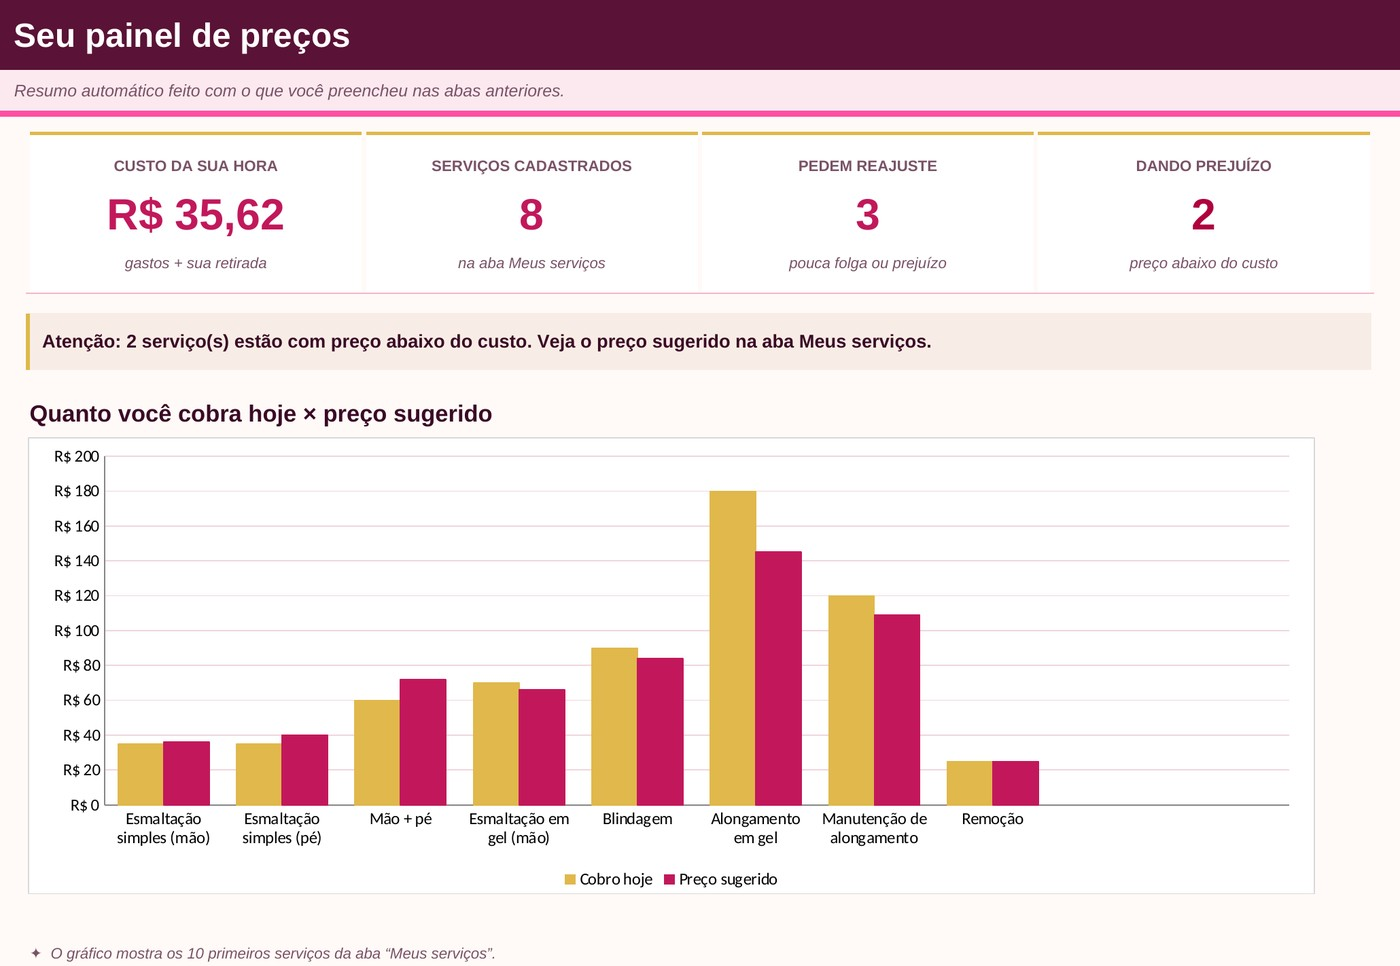
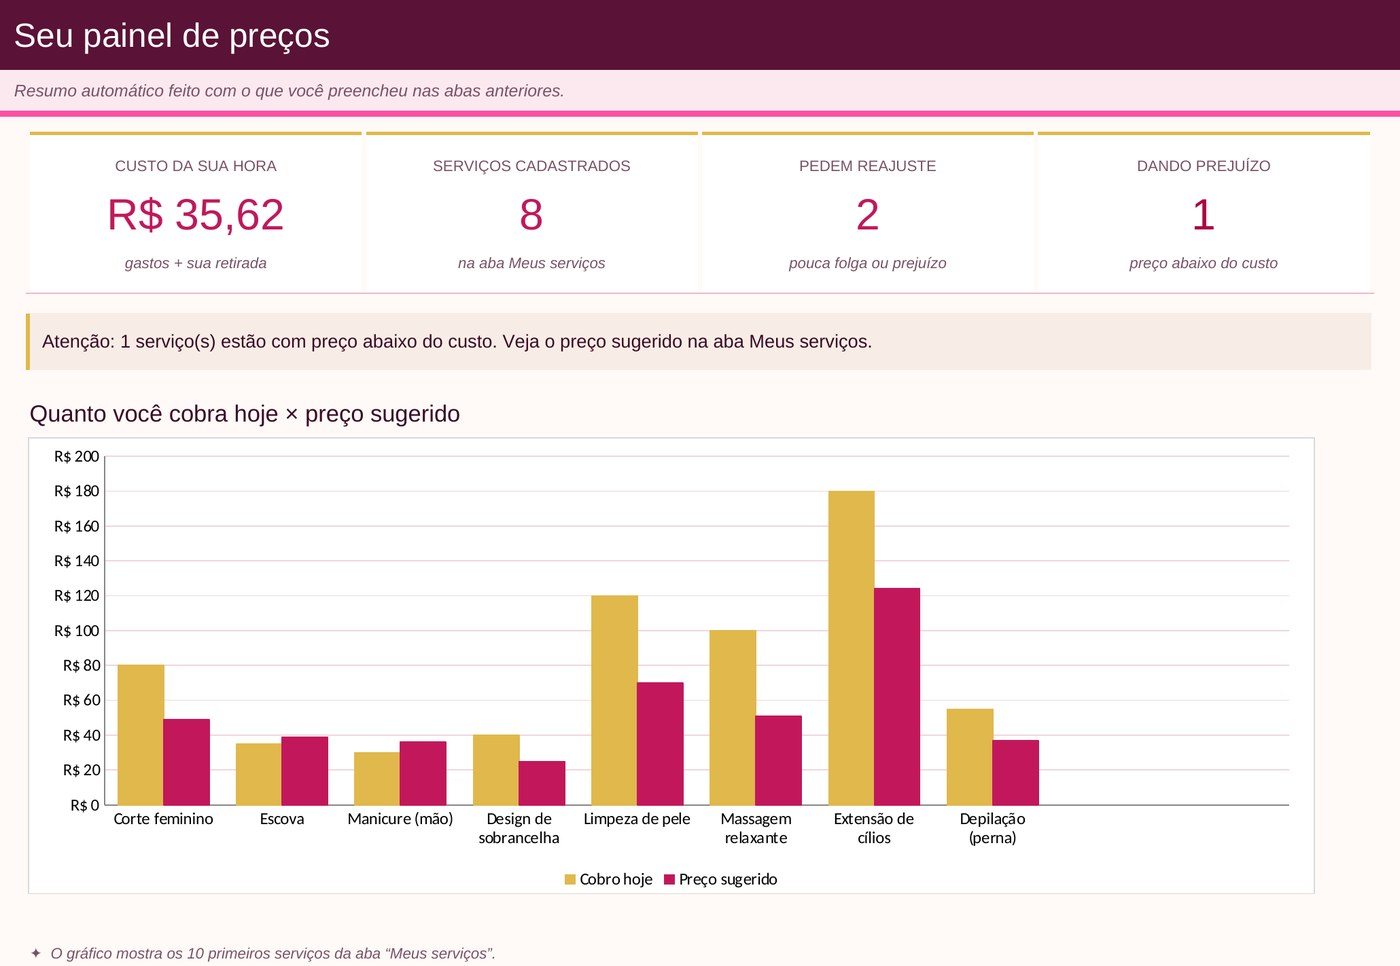
Tira referencias a unhas: icones, emojis, FAQ, exemplos variados na planilha, calculadora e imagens do site
Claude-Session: https://claude.ai/code/session_01VVXSWQenri3WwETC67snQx

diff --git a/index.html b/index.html
@@ -6,7 +6,7 @@
 <link rel="icon" type="image/png" href="favicon.png"><link rel="apple-touch-icon" href="apple-touch-icon.png">
 <link rel="preconnect" href="https://fonts.googleapis.com"><link rel="preconnect" href="https://fonts.gstatic.com" crossorigin>
 <link href="https://fonts.googleapis.com/css2?family=Fredoka:wght@600;700&family=Poppins:wght@400;500;600;700;800&family=Dancing+Script:wght@700&display=swap" rel="stylesheet">
-<link rel="stylesheet" href="style.css?v=65">
+<link rel="stylesheet" href="style.css?v=66">
 <script>document.documentElement.className+=' js';</script></head><body>
 
 <!-- ícones -->
@@ -120,7 +120,7 @@
   <div class="grid g3">
     <div class="tile rv"><div class="ico"><svg viewBox="0 0 24 24"><use href="#i-bulb"/></svg></div><div><b>Leia primeiro</b><span>3 passos e as cores explicadas</span></div></div>
     <div class="tile rv"><div class="ico"><svg viewBox="0 0 24 24"><use href="#i-clock"/></svg></div><div><b>Meu custo por hora</b><span>descubra quanto custa o seu tempo</span></div></div>
-    <div class="tile rv"><div class="ico"><svg viewBox="0 0 24 24"><use href="#i-polish"/></svg></div><div><b>Meus serviços</b><span>preço sugerido e lucro de cada um</span></div></div>
+    <div class="tile rv"><div class="ico"><svg viewBox="0 0 24 24"><use href="#i-list"/></svg></div><div><b>Meus serviços</b><span>preço sugerido e lucro de cada um</span></div></div>
     <div class="tile rv"><div class="ico"><svg viewBox="0 0 24 24"><use href="#i-coin"/></svg></div><div><b>Painel</b><span>resumo e gráfico para ver onde ajustar</span></div></div>
     <div class="tile rv"><div class="ico"><svg viewBox="0 0 24 24"><use href="#i-tag"/></svg></div><div><b>Tabela para divulgar</b><span>pronta para tirar print e postar</span></div></div>
     <div class="tile rv"><div class="ico"><svg viewBox="0 0 24 24"><use href="#i-sheet"/></svg></div><div><b>Fórmulas já prontas</b><span>você só preenche as células amarelas</span></div></div>
@@ -137,7 +137,7 @@
   <div class="grid g2">
     <div class="tile rv"><div class="ico"><svg viewBox="0 0 24 24"><use href="#i-down"/></svg></div><div><b>Trabalha o dia inteiro</b><span>e no fim do mês o dinheiro parece que some.</span></div></div>
     <div class="tile rv"><div class="ico"><svg viewBox="0 0 24 24"><use href="#i-tag"/></svg></div><div><b>Cobra o que “todo mundo cobra”</b><span>sem saber se o preço paga o seu custo.</span></div></div>
-    <div class="tile rv"><div class="ico"><svg viewBox="0 0 24 24"><use href="#i-polish"/></svg></div><div><b>Não sabe quanto gasta de material</b><span>em cada esmaltação, gel ou alongamento.</span></div></div>
+    <div class="tile rv"><div class="ico"><svg viewBox="0 0 24 24"><use href="#i-alert"/></svg></div><div><b>Não sabe quanto gasta de material</b><span>em cada atendimento que você faz.</span></div></div>
     <div class="tile rv"><div class="ico"><svg viewBox="0 0 24 24"><use href="#i-bulb"/></svg></div><div><b>Esquece custos escondidos</b><span>aluguel, luz, internet, maquininha e o seu próprio tempo.</span></div></div>
   </div>
   <p class="bridge rv">Não é falta de talento. É falta da conta certa.</p>
@@ -147,7 +147,7 @@
 <section><div class="wrap">
   <div class="center rv"><h2>O que a ferramenta faz por você</h2><p class="lead">Você preenche as células amarelas. Ela faz a conta.</p></div>
   <div class="grid g3">
-    <div class="tile rv"><div class="ico"><svg viewBox="0 0 24 24"><use href="#i-polish"/></svg></div><div><b>Custo do material</b><span>quanto você gasta em cada serviço</span></div></div>
+    <div class="tile rv"><div class="ico"><svg viewBox="0 0 24 24"><use href="#i-coin"/></svg></div><div><b>Custo do material</b><span>quanto você gasta em cada serviço</span></div></div>
     <div class="tile rv"><div class="ico"><svg viewBox="0 0 24 24"><use href="#i-clock"/></svg></div><div><b>Valor do seu tempo</b><span>quanto custa a sua hora de trabalho</span></div></div>
     <div class="tile rv"><div class="ico"><svg viewBox="0 0 24 24"><use href="#i-coin"/></svg></div><div><b>Lucro de cada serviço</b><span>o que realmente sobra no seu bolso</span></div></div>
     <div class="tile rv"><div class="ico"><svg viewBox="0 0 24 24"><use href="#i-spark"/></svg></div><div><b>Preço sugerido</b><span>já com maquininha e uma reserva</span></div></div>
@@ -188,7 +188,7 @@
         <div class="scr">
           <div class="ph-head"><span class="av">C</span><div><b>Camila</b><small>cliente · online</small></div></div>
           <div class="ph-body">
-            <div class="msg in" id="m1">Oi! Quanto fica mão + pé? 💅</div>
+            <div class="msg in" id="m1">Oi! Quanto fica o atendimento de 90 minutos?</div>
             <div class="typing" id="ty"><i></i><i></i><i></i></div>
             <div class="msg out" id="m2">Fica R$ 60 😊</div>
             <div class="flag" id="f1">Atenção: nesse preço você perde R$ 3,83</div>
@@ -200,7 +200,7 @@
             <div class="row" id="r1"><span>Material gasto</span><b>R$ 8,00</b></div>
             <div class="row" id="r2"><span>Seu tempo (90 min)</span><b>R$ 53,43</b></div>
             <div class="row" id="r3"><span>Maquininha + reserva</span><b>R$ 10,57</b></div>
-            <div class="total" id="tt"><div><small>Preço sugerido</small><small>mão + pé</small></div><b id="pv">R$ 60</b></div>
+            <div class="total" id="tt"><div><small>Preço sugerido</small><small>atendimento de 90 min</small></div><b id="pv">R$ 60</b></div>
           </div>
         </div>
       </div>
@@ -208,7 +208,7 @@
     </div>
     <div class="demo-txt rv">
       <h3>Sem a conta, o prejuízo fica invisível.</h3>
-      <p>Neste exemplo, o serviço de “mão + pé” a R$ 60 custa mais do que rende. A calculadora mostra isso na hora e sugere o preço que cobre material, tempo e taxas.</p>
+      <p>Neste exemplo, um atendimento de 90 minutos a R$ 60 custa mais do que rende. A calculadora mostra isso na hora e sugere o preço que cobre material, tempo e taxas.</p>
       <div class="legend">
         <div><i style="background:#C2185B"></i>Material, tempo e taxas somados automaticamente</div>
         <div><i style="background:#C9A24B"></i>Preço sugerido arredondado para cima</div>
@@ -239,7 +239,7 @@
   <details><summary>É grátis mesmo?</summary><p>Sim. A calculadora é gratuita, sem cartão. Depois, podemos avisar sobre o Kit Preço Certo completo, e você decide se quer.</p></details>
   <details><summary>Funciona no celular?</summary><p>Sim, ela foi feita para o celular. Depois do cadastro, você abre a calculadora no navegador, sem instalar nada, e salva a tabela de preços como imagem. De bônus, você também recebe a planilha Excel para usar no computador.</p></details>
   <details><summary>Preciso saber Excel?</summary><p>Não. No celular você só preenche os campos e ela calcula tudo sozinha. Na planilha Excel (o bônus), basta preencher as células amarelas.</p></details>
-  <details><summary>Serve só para unhas?</summary><p>Não! Serve para qualquer serviço que você cobra por atendimento: unhas (esmaltação, gel, blindagem, alongamento), cílios, sobrancelha, cabelo, estética e muito mais. Você cadastra os seus serviços e o material de cada um. Os exemplos da calculadora são de unhas só para você ver a conta funcionando.</p></details>
+  <details><summary>Serve para o meu tipo de serviço?</summary><p>Sim. Serve para qualquer serviço que você cobra por atendimento: cabelo, unhas, cílios, sobrancelha, estética, massagem, barbearia, maquiagem e muito mais. Você cadastra os seus serviços e o material de cada um. Os exemplos da calculadora são só para você ver a conta funcionando: troque pelos seus.</p></details>
   <details><summary>O que fazem com o meu WhatsApp?</summary><p>Usamos para enviar a calculadora e avisos do Kit Preço Certo. Não vendemos seus dados e você pode sair quando quiser. Detalhes na <a href="privacidade.html">política de privacidade</a>.</p></details>
   </div>
 </div></section>

diff --git a/calculadora.html b/calculadora.html
@@ -160,7 +160,7 @@ input[type=file].in{background:#fff;padding:10px}
 </style></head><body>
 <div class="top"><img src="favicon.png" alt=""><b>Kit Preço Certo</b><span>Calculadora de preço</span></div>
 <main>
-<div class="banner" id="inapp" style="display:none;background:#FFF3C4;border:1px solid #E8D48A"><b>✨ Truque de 5 segundos</b><br>Toque nos <b>3 pontinhos ⋮</b> lá em cima e escolha <b>“Abrir no navegador”</b>. Assim você consegue salvar a tabela na galeria e seus números ficam guardados. 💅
+<div class="banner" id="inapp" style="display:none;background:#FFF3C4;border:1px solid #E8D48A"><b>✨ Truque de 5 segundos</b><br>Toque nos <b>3 pontinhos ⋮</b> lá em cima e escolha <b>“Abrir no navegador”</b>. Assim você consegue salvar a tabela na galeria e seus números ficam guardados. 
 <button class="btn s" id="openchrome" type="button" style="display:none;margin-top:8px">Abrir no Chrome</button>
 <p class="note" style="margin:8px 0 0">Sem pressa: também dá para tirar um print da tabela pronta.</p></div>
 
@@ -270,7 +270,7 @@ var KEY='kpc_calc_v1';
 function ex(){return {ex:true,
  fixos:[['Aluguel / cadeira / espaço',600],['Luz, água, internet',150],['Imposto (ex.: DAS do MEI)',80],['Telefone / aplicativos / agenda',60],['Divulgação (anúncios, cartões etc.)',50],['Reposição de equipamentos',70],['Outros gastos fixos',0]].map(function(x){return {l:x[0],v:x[1]};}),
  ret:3000,hd:8,dias:5,ocup:65,card:4,res:10,studio:'',
- sv:[['Esmaltação simples (mão)',45,4,35],['Esmaltação simples (pé)',50,4,35],['Mão + pé',90,8,60],['Esmaltação em gel (mão)',75,12,70],['Blindagem',90,18,90],['Alongamento em gel',150,35,180],['Manutenção de alongamento',120,22,120],['Remoção',30,3,25]].map(function(x){return {n:x[0],t:x[1],m:x[2],p:x[3]};})};}
+ sv:[['Corte feminino',60,6,80],['Escova',45,6,35],['Manicure (mão)',45,4,30],['Design de sobrancelha',30,3,40],['Limpeza de pele',75,15,120],['Massagem relaxante',60,8,100],['Extensão de cílios',120,35,180],['Depilação (perna)',40,8,55]].map(function(x){return {n:x[0],t:x[1],m:x[2],p:x[3]};})};}
 var S; try{S=JSON.parse(localStorage.getItem(KEY));}catch(e){} if(!S||!S.fixos||!S.sv)S=ex();
 function save(){try{localStorage.setItem(KEY,JSON.stringify(S));}catch(e){}}
 function num(v){if(v===''||v==null)return NaN; if(typeof v==='number')return v; v=String(v).trim().replace(/[^\d,.\-]/g,''); if(v.indexOf(',')>-1)v=v.replace(/\./g,'').replace(',','.'); return parseFloat(v);}

diff --git a/obrigado.html b/obrigado.html
@@ -3,15 +3,15 @@
 <title>Sua calculadora · Kit Preço Certo</title><meta name="robots" content="noindex">
 <link rel="icon" type="image/png" href="favicon.png">
 <link href="https://fonts.googleapis.com/css2?family=Fredoka:wght@600;700&family=Poppins:wght@400;500;600;700;800&family=Dancing+Script:wght@700&display=swap" rel="stylesheet">
-<link rel="stylesheet" href="style.css?v=65"></head><body>
+<link rel="stylesheet" href="style.css?v=66"></head><body>
 <div class="top">
 <header><div class="wrap"><a class="brand" href="./"><img src="favicon.png" alt="">Kit Preço Certo</a></div></header>
 <div class="wrap ph"><div class="ornt" aria-hidden="true"><i></i><svg viewBox="0 0 24 24"><path d="M12 20.5S3.5 15 3.5 8.9A4.6 4.6 0 0 1 12 6.6a4.6 4.6 0 0 1 8.5 2.3C20.5 15 12 20.5 12 20.5z"/></svg><i></i></div>
-<h1><span class="tt">Pronto! Sua calculadora está liberada</span> <em>Bora acertar os seus preços 💅</em></h1>
+<h1><span class="tt">Pronto! Sua calculadora está liberada</span> <em>Bora acertar os seus preços</em></h1>
 <p class="sub">Use agora no celular, monte a sua tabela de preços e salve como imagem para postar. A planilha Excel é o seu bônus.</p></div></div>
 <div class="wrap" style="max-width:640px;padding-bottom:60px">
 <div id="inapp" style="display:none;background:#FFF3C4;border:1px solid #E8D48A;border-radius:16px;padding:14px 16px;margin:0 0 16px;text-align:left">
-<b>✨ Truque de 5 segundos</b><br>Você está no Instagram. Para a calculadora ficar 100% completa (e você poder salvar a tabela de preços na galeria), toque nos <b>3 pontinhos ⋮</b> lá em cima e depois em <b>“Abrir no navegador”</b>. Pronto, é só isso! 💅</div>
+<b>✨ Truque de 5 segundos</b><br>Você está no Instagram. Para a calculadora ficar 100% completa (e você poder salvar a tabela de preços na galeria), toque nos <b>3 pontinhos ⋮</b> lá em cima e depois em <b>“Abrir no navegador”</b>. Pronto, é só isso! </div>
 <div class="dl-box" id="dlbox">
 <a class="btn" id="gs" href="calculadora.html" target="_blank" rel="noopener">Usar agora no celular</a>
 <p class="note-s" style="margin:10px 0 0;text-align:center">Sem baixar nada. Monte a tabela de preços, personalize e salve a imagem para postar.</p>

diff --git a/privacidade.html b/privacidade.html
@@ -2,7 +2,7 @@
 <html lang="pt-BR"><head><meta charset="utf-8"><meta name="viewport" content="width=device-width, initial-scale=1">
 <title>Política de privacidade · Kit Preço Certo</title><link rel="icon" type="image/png" href="favicon.png">
 <link href="https://fonts.googleapis.com/css2?family=Fredoka:wght@600;700&family=Poppins:wght@400;500;600;700;800&family=Dancing+Script:wght@700&display=swap" rel="stylesheet">
-<link rel="stylesheet" href="style.css?v=65"></head><body>
+<link rel="stylesheet" href="style.css?v=66"></head><body>
 <div class="top">
 <header><div class="wrap"><a class="brand" href="./"><img src="favicon.png" alt="">Kit Preço Certo</a></div></header>
 <div class="wrap ph"><div class="ornt" aria-hidden="true"><i></i><svg viewBox="0 0 24 24"><path d="M12 20.5S3.5 15 3.5 8.9A4.6 4.6 0 0 1 12 6.6a4.6 4.6 0 0 1 8.5 2.3C20.5 15 12 20.5 12 20.5z"/></svg><i></i></div>

diff --git a/valeu.html b/valeu.html
@@ -3,7 +3,7 @@
 <title>Valeu! · Kit Preço Certo</title><meta name="robots" content="noindex">
 <link rel="icon" type="image/png" href="favicon.png">
 <link href="https://fonts.googleapis.com/css2?family=Fredoka:wght@600;700&family=Poppins:wght@400;500;600;700;800&family=Dancing+Script:wght@700&display=swap" rel="stylesheet">
-<link rel="stylesheet" href="style.css?v=65"></head><body>
+<link rel="stylesheet" href="style.css?v=66"></head><body>
 <div class="top">
 <header><div class="wrap"><a class="brand" href="./"><img src="favicon.png" alt="">Kit Preço Certo</a></div></header>
 <div class="wrap ph"><div class="ornt" aria-hidden="true"><i></i><svg viewBox="0 0 24 24"><path d="M12 20.5S3.5 15 3.5 8.9A4.6 4.6 0 0 1 12 6.6a4.6 4.6 0 0 1 8.5 2.3C20.5 15 12 20.5 12 20.5z"/></svg><i></i></div>
